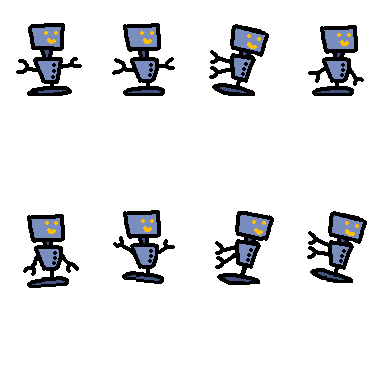
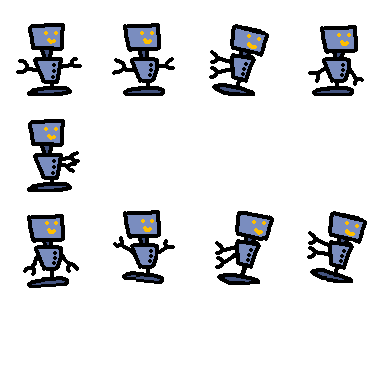
Held sprite for watering can

Changed region(s): [[0.0625, 0.3125, 0.2188, 0.5]]

diff --git a/src/player.js b/src/player.js
@@ -43,6 +43,7 @@ export default class Player extends Thing {
       speed: 0,
       frameSize: 96
     },
+    grab: { frames: [4], speed: 0, frameSize: 96 },
   }
   aabb = [-0.5, -0.5, 0.5, 1]
   jumpBuffer = 0
@@ -51,7 +52,13 @@ export default class Player extends Thing {
   direction = 1
   cameraOffset = [0, 0]
   squash = [1, 1]
-  ownedTools = ['sickle', 'seedPacketHedge', 'seedPacketApple', 'wateringCan', 'waterGun']
+  ownedTools = [
+    'sickle',
+    'seedPacketHedge',
+    'seedPacketApple',
+    'wateringCan',
+    'waterGun'
+  ]
   selectedTools = {
     seedPacket: '',
     wateringDevice: '',
@@ -111,17 +118,18 @@ export default class Player extends Thing {
       this.runFrames += 1
     }
     if (this.velocity[1] < 0) {
-      this.animation = Math.abs(this.velocity[0]) < runThreshold ? 'jump' : 'runJump'
+      this.animation = (
+        Math.abs(this.velocity[0]) < runThreshold
+          ? 'jump'
+          : 'runJump'
+      )
     }
     if (this.velocity[1] > 0.1) {
-      //this.animation = 'fall'
-      this.animation = Math.abs(this.velocity[0]) < runThreshold ? 'fall' : 'runFall'
-    }
-
-    // Chug along when running
-    if (this.runFrames > 0) {
-      const s = Math.sin(this.runFrames * Math.PI * 2 / 10)
-      this.squash[1] = u.map(s, -1, 1, 1, 0.93, true)
+      this.animation = (
+        Math.abs(this.velocity[0]) < runThreshold
+          ? 'fall'
+          : 'runFall'
+      )
     }
 
     const onGround = this.contactDirections.down
@@ -137,6 +145,12 @@ export default class Player extends Thing {
 
     // Apply gravity
     this.velocity[1] += 1 / 48
+
+    // Chug along when running
+    if (this.runFrames > 0 && onGround) {
+      const s = Math.sin(this.runFrames * Math.PI * 2 / 10)
+      this.squash[1] = u.map(s, -1, 1, 1, 0.93, true)
+    }
 
     // Coyote frames
     this.coyoteFrames -= 1
@@ -165,6 +179,11 @@ export default class Player extends Thing {
       this.velocity[1] *= 0.7
     }
 
+    const usingItem = game.keysDown.KeyA || game.buttonsDown[2]
+    if (usingItem || this.getSelectedTool() === 'wateringCan') {
+      this.animation = 'grab'
+    }
+
     // Move left and right, on ground speed is naturally clamped by
     // friction but in the air we have to artificially clamp it
     if (game.keysDown.ArrowRight || game.buttonsDown[15]) {
@@ -172,7 +191,7 @@ export default class Player extends Thing {
       if (!onGround) {
         this.velocity[0] = Math.min(this.velocity[0], maxSpeed)
       }
-      if (!(game.keysDown.KeyA || game.buttonsDown[2])) {
+      if (!usingItem) {
         this.direction = u.sign(this.velocity[0]) || this.direction
       }
     }
@@ -181,7 +200,7 @@ export default class Player extends Thing {
       if (!onGround) {
         this.velocity[0] = Math.max(this.velocity[0], -maxSpeed)
       }
-      if (!(game.keysDown.KeyA || game.buttonsDown[2])) {
+      if (!usingItem) {
         this.direction = u.sign(this.velocity[0]) || this.direction
       }
     }
@@ -459,6 +478,17 @@ export default class Player extends Thing {
       ctx.save()
       ctx.globalAlpha = u.map(Math.sin(this.time / 10), -1, 1, 0.3, 0.8)
       ctx.drawImage(game.assets.images.selectionBox, ...this.placementPositionVisual, 1, 1)
+      ctx.restore()
+    }
+
+    // Draw the held watering can
+    if (this.getSelectedTool() === 'wateringCan') {
+      ctx.save()
+      ctx.translate(...this.position)
+      ctx.translate(this.direction, 0.15)
+      ctx.scale(this.direction, 1)
+      ctx.scale(1 / 48, 1 / 48)
+      this.drawSpriteFrame('wateringCan')
       ctx.restore()
     }
   }

diff --git a/src/main.js b/src/main.js
@@ -16,6 +16,7 @@ game.assets.images = await game.loadImages({
   guy: 'images/guy3.png',
   plantHedgeSprout: 'images/hedgeSprout.png',
   selectionBox: 'images/selectionBox.png',
+  wateringCan: 'images/wateringcan.png',
 })
 
 game.assets.levels = await game.loadText({
